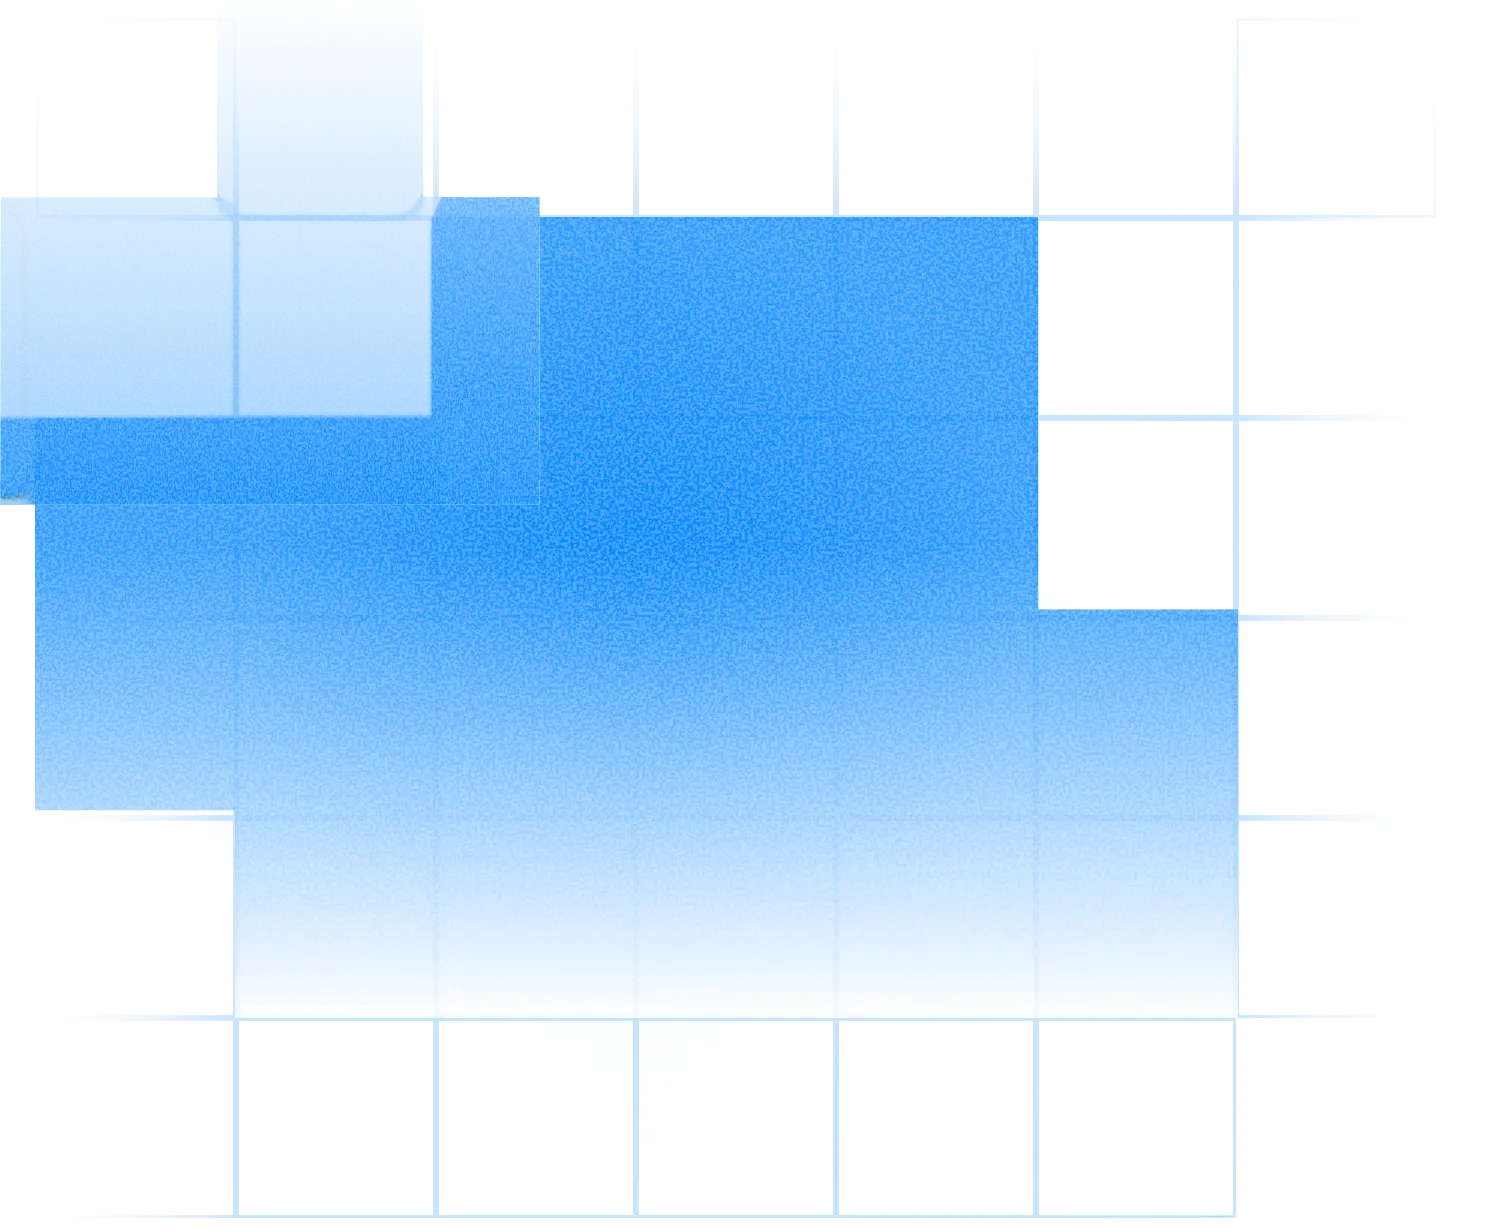
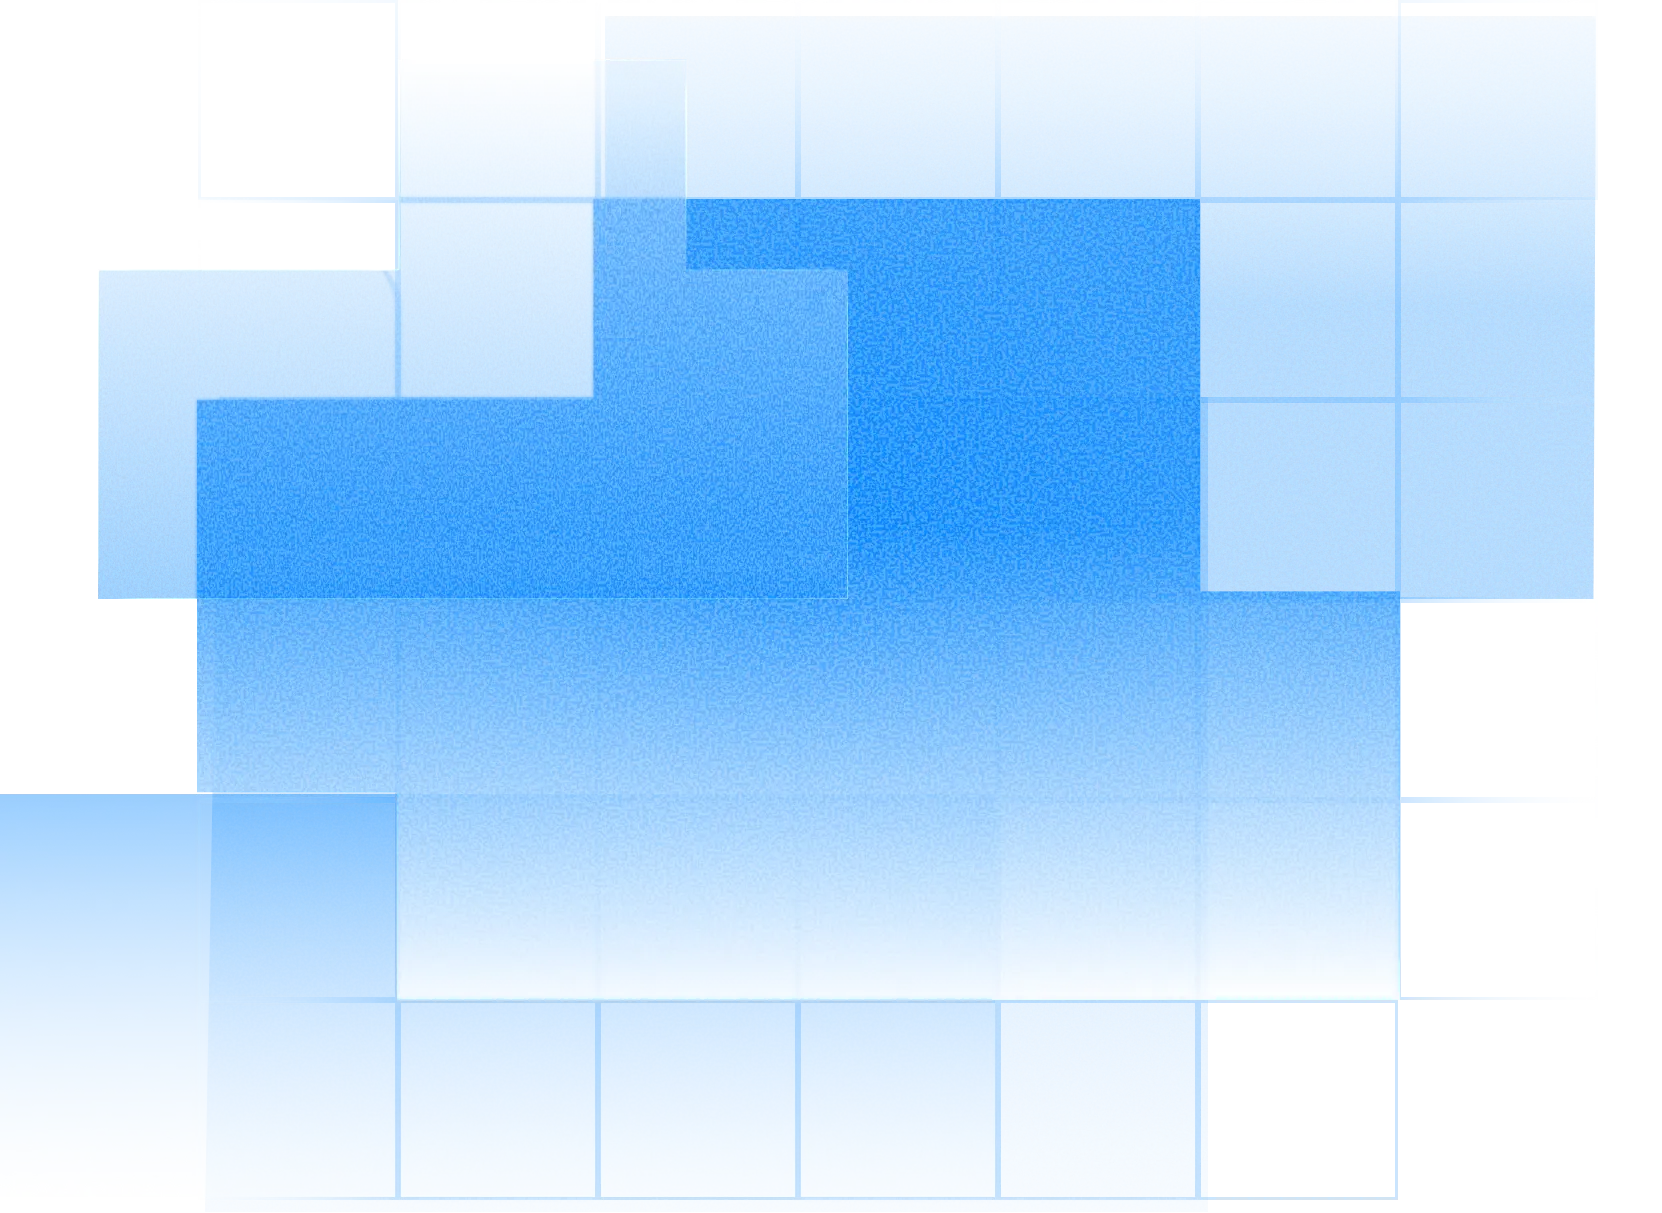
add a certificate sections

diff --git a/components/Home/Home/Section/certificates/index.tsx b/components/Home/Home/Section/certificates/index.tsx
@@ -1,0 +1,142 @@
+"use client";
+import { useState } from "react";
+import { motion, AnimatePresence } from "motion/react";
+import TagTitle from "@/components/ui/TagTitle";
+import Title from "@/components/ui/Title";
+import { TextAnimate } from "@/components/ui/text-animate";
+
+type CertItem = {
+  id: number;
+  title: string;
+  issuer: string;
+  year: string;
+  tags: string[];
+  photo?: string;
+  link?: string;
+};
+
+const certificates: CertItem[] = [
+  {
+    id: 1,
+    title: "Komunikasi bisnis",
+    issuer: "HP Life",
+    year: "2026",
+    tags: ["Bisnis"],
+    photo: "/assets/img/certificates/komunikasi-bisnis.webp",
+    link: "https://www.life-global.org/certificate/38a60c6e-f757-4ed9-8178-cace489b08f4",
+  },
+  {
+    id: 2,
+    title: "computer hardware basic",
+    issuer: "Cisco Network Academy",
+    year: "2026",
+    tags: ["Hardware"],
+    photo: "/assets/img/certificates/computer-hardware-basic.webp",
+    link: "https://www.netacad.com/certificates/?issuanceId=3ebe1a87-eaff-4074-b93c-3c371f24add7",
+  },
+];
+
+const CertCard = ({ item, index, onClick }: { item: CertItem; index: number; onClick: () => void }) => (
+  <motion.div
+    className="group flex flex-col border border-slate-200 rounded-sm overflow-hidden bg-white
+               hover:border-blue-300 transition-colors duration-300 cursor-pointer"
+    initial={{ opacity: 0, y: 14 }}
+    whileInView={{ opacity: 1, y: 0 }}
+    viewport={{ once: true, margin: "-40px" }}
+    transition={{ duration: 0.4, delay: index * 0.07 }}
+    onClick={onClick}
+  >
+    {/* Thumbnail */}
+    <div className="w-full h-auto bg-blue-50 relative overflow-hidden flex-shrink-0">
+      {item.photo ? (
+        <img
+          src={item.photo}
+          alt={item.title}
+          loading="lazy"
+          className="w-full h-full object-cover group-hover:scale-100 transition-transform duration-400"
+        />
+      ) : (
+        <div className="w-full h-full flex items-center justify-center">
+          <span className="text-3xl text-blue-200">🎓</span>
+        </div>
+      )}
+      <span className="absolute top-2 right-2 text-[10px] bg-blue-600 text-white px-2 py-0.5 rounded-full">
+        {item.year}
+      </span>
+    </div>
+
+    {/* Body */}
+    <div className="p-3 flex flex-col gap-1">
+      <p className="text-sm font-medium text-slate-800 leading-snug line-clamp-2">{item.title}</p>
+      <p className="text-xs text-slate-400">{item.issuer}</p>
+    </div>
+  </motion.div>
+);
+
+const Certificates = () => {
+  const [selected, setSelected] = useState<CertItem | null>(null);
+
+  return (
+    <div className="max-w-5xl mx-auto w-full">
+      <TagTitle title="Home" bagian="Certificates" color="blue" />
+      <Title className="font-minecraft">Certificates</Title>
+      <TextAnimate animation="blurIn" by="word">Sertifikasi yang pernah diraih</TextAnimate>
+
+      <div className="mt-10 grid grid-cols-2 sm:grid-cols-3 xl:grid-cols-4 gap-3">
+        {certificates.map((item, i) => (
+          <CertCard key={item.id} item={item} index={i} onClick={() => setSelected(item)} />
+        ))}
+      </div>
+
+{/* Modal */}
+<AnimatePresence>
+  {selected && (
+    <motion.div
+      className="fixed inset-0 z-50 flex items-center justify-center backdrop-blur-sm bg-black/40"
+      initial={{ opacity: 0 }}
+      animate={{ opacity: 1 }}
+      exit={{ opacity: 0 }}
+      onClick={() => setSelected(null)}
+    >
+      <motion.div
+        className="relative mx-4 overflow-hidden w-auto rounded-sm border border-slate-200"
+        initial={{ opacity: 0, scale: 0.95, y: 8 }}
+        animate={{ opacity: 1, scale: 1, y: 0 }}
+        exit={{ opacity: 0, scale: 0.95, y: 8 }}
+        transition={{ duration: 0.2 }}
+        onClick={(e) => e.stopPropagation()}
+      >
+        <button
+          className="absolute top-2 right-2 z-10 w-7 h-7 rounded-full bg-black/30 hover:bg-black/50
+                     text-white text-xs flex items-center justify-center"
+          onClick={() => setSelected(null)}
+        >✕</button>
+
+        {/* Image */}
+        {selected.photo ? (
+          <img src={selected.photo} alt={selected.title} className="w-auto h-auto block" />
+        ) : (
+          <div className="w-72 h-48 bg-blue-50 flex items-center justify-center text-4xl text-blue-200">🎓</div>
+        )}
+
+        {/* Bottom bar */}
+        {selected.link && (
+          <a
+            href={selected.link}
+            target="_blank"
+            rel="noopener noreferrer"
+            className="flex items-center justify-between px-4 py-3 bg-white hover:bg-slate-50 transition-colors"
+          >
+            <span className="text-xs text-slate-600">{selected.issuer}</span>
+            <span className="text-xs text-blue-600">Buka ↗</span>
+          </a>
+        )}
+      </motion.div>
+    </motion.div>
+  )}
+</AnimatePresence>
+    </div>
+  );
+};
+
+export default Certificates;

diff --git a/components/Home/Home/Section/Projects/index.tsx b/components/Home/Home/Section/Projects/index.tsx
@@ -34,7 +34,7 @@ const projects: ProjectItem[] = [
     id: 2,
     title: "Inker: Busines website",
     year: "2026",
-    description: "Membuat website management client dan SOP produk",
+    description: "tahap design untuk pembuatan website SOP & Client management",
     techs: ["Laravel", "TailwindCss"],
     repo: "https://github.com/notcore",
     photo: "/assets/img/projects/Inker.PNG",
@@ -58,8 +58,7 @@ const ProjectCard = ({ item, index }: { item: ProjectItem; index: number }) => {
 
   return (
     <motion.div
-      id="projects"
-      className={`group flex flex-col border border-slate-200 rounded-sm overflow-hidden bg-white transition-colors duration-300
+      className={`group flex flex-col mx-5 border border-slate-200 rounded-sm overflow-hidden bg-white transition-colors duration-300
         ${tapped ? "border-blue-300" : "hover:border-blue-300"}`}
       initial={{ opacity: 0, y: 16 }}
       whileInView={{ opacity: 1, y: 0 }}
@@ -69,7 +68,7 @@ const ProjectCard = ({ item, index }: { item: ProjectItem; index: number }) => {
       onTouchEnd={() => setTimeout(() => setTapped(false), 600)}
     >
       {/* thumbnail */}
-      <div className="w-full relative h-40 bg-slate-100 overflow-hidden flex-shrink-0">
+      <div className="w-full relative h-30 bg-slate-100 overflow-hidden flex-shrink-0">
         <img
           src="/assets/img/gradient/card-gradient-blue.webp"
           className="absolute inset-0 w-full h-full object-cover opacity-50"
@@ -77,13 +76,13 @@ const ProjectCard = ({ item, index }: { item: ProjectItem; index: number }) => {
 
         {item.photo && !imgError ? (
           <div
-            className={`absolute -bottom-5 left-0 w-[75%] h-[85%] will-change-transform
+            className={`absolute  -bottom-5 left-2 w-[75%] h-[85%] will-change-transform
               transition-transform duration-500 [transition-timing-function:cubic-bezier(0.34,1.2,0.64,1)]
               rounded-md border-4 border-zinc-800
-              group-hover:-translate-y-5 group-hover:translate-x-[17%] group-hover:scale-110
-              ${tapped ? "-translate-y-5 translate-x-[17%] scale-110" : ""}`}
+              group-hover:-translate-y-5 group-hover:translate-x-[14%] group-hover:scale-110
+              ${tapped ? "-translate-y-5 translate-x-[14%] scale-110" : ""}`}
           >
-            <div className="w-20 h-2 bg-zinc-800 left-[35%] rounded-b-md absolute" />
+            <div className="w-20 h-2 bg-zinc-800 left-[37%] md:left-[34%] rounded-b-md absolute" />
             <img
               src={item.photo}
               alt={item.title}

diff --git a/app/page.tsx b/app/page.tsx
@@ -10,6 +10,7 @@ import Experience from "@/components/Home/Home/Section/Experience";
 import Projects from "@/components/Home/Home/Section/Projects";
 import Layout from "@/components/ui/Layout";
 import Contact from "@/components/Home/Home/Section/Contact";
+import Certificates from "@/components/Home/Home/Section/certificates";
 import DownloadCV from "@/components/ui/Download";
 
 export default function CorePage() {
@@ -59,17 +60,22 @@ export default function CorePage() {
         </section>
 
         {/* Experience */}
-        <section id="experience" className="min-h-screen">
+        <section id="experience" className="min-h-auto">
           <Experience />
         </section>
 
         {/* Projects */}
-        <section id="projects" className="min-h-screen">
+        <section id="projects" className="min-h-auto">
           <Projects />
         </section>
 
+        {/* certificate */}
+        <section id="certificate" className="min-h-auto">
+          <Certificates />
+        </section>
+
         {/* Contact */}
-        <section id="contact" className="min-h-[40vh]">
+        <section id="contact" className="min-h-auto">
           <Contact />
         </section>
       </div>

diff --git a/components/ui/Sidebar/index.tsx b/components/ui/Sidebar/index.tsx
@@ -1,6 +1,6 @@
 "use client";
 
-import { User, Briefcase, Code2, Mail, MapPin, Phone, Instagram, Send } from "lucide-react";
+import { User, Briefcase, Code2, Award, Mail, MapPin, Phone, Instagram, Send } from "lucide-react";
 import { cn } from "@/lib/utils";
 import DownloadCV from "@/components/ui/Download"
 
@@ -8,7 +8,9 @@ const navItems = [
   { icon: User,      label: "About",      id: "about" },
   { icon: Briefcase, label: "Experience", id: "experience" },
   { icon: Code2,     label: "Projects",   id: "projects" },
+  { icon: Award,     label: "Certificate",id: "certificate" },
   { icon: Mail,      label: "Contact",    id: "contact" },
+
 ];
 
 const contacts = [
@@ -18,12 +20,6 @@ const contacts = [
     value: "6281215997620",
     href: "https://wa.me/6281215997620",
   },
-  {
-    icon: Mail,
-    label: "Email",
-    value: "[email redacted]",
-    href: "mailto:[email redacted]",
-  },
 ];
 
 export default function Sidebar({ active }: { active: string }) {
@@ -32,7 +28,7 @@ export default function Sidebar({ active }: { active: string }) {
   };
 
   return (
-    <aside className="w-[252px] ml-[10%] min-w-[252px] fixed top-0 left-0 h-screen bg-white border-r border-black/[0.08] flex-col hidden lg:flex">
+    <aside className="w-[252px] ml-[5%] min-w-[252px] fixed top-0 left-0 h-screen bg-white border-r border-black/[0.08] flex-col hidden lg:flex">
 
       {/* Profile */}
       <div className="px-[22px] pt-[26px] pb-[18px]">

diff --git a/components/ui/Footer/index.tsx b/components/ui/Footer/index.tsx
@@ -4,7 +4,7 @@ const socials = [
   { icon: Github,    href: "https://github.com/notcore",         label: "GitHub",    value: "notcore" },
 //   { icon: Instagram, href: "https://instagram.com/mistakee._", label: "Instagram", value: "@dava.elyanta" },
   { icon: Phone,      href: "https://wa.me/[phone redacted]",           label: "whatsapp",  value: "[phone redacted]" },
-  { icon: Mail,      href: "mailto:[email redacted]",              label: "Email",     value: "[email redacted]" },
+  { icon: Mail,      href: "mailto:[email redacted]",              label: "Email",     value: "[email redacted]" },
 ];
 
 const quickNav = [
@@ -45,7 +45,7 @@ export default function Footer() {
           </div>
           <div>
             <p className="font-coolvetica text-xl leading-tight">Dava Elyanta</p>
-            <p className="text-xs text-neutral-400 mt-0.5">Fresh Graduate</p>
+            <p className="text-xs text-neutral-400 mt-0.5">WE CAN GO UP</p>
           </div>
           <div className="flex items-center gap-1 text-xs text-blue-600">
             <MapPin size={10} />

diff --git a/components/ui/Layout/index.tsx b/components/ui/Layout/index.tsx
@@ -5,7 +5,7 @@ import MobileNav from "@/components/ui/MobileNav";
 import Footer from "@/components/ui/Footer";
 import { useScrollSpy } from "@/hooks/UseScrollSpy";
 
-const SECTIONS = ["about", "experience", "projects", "contact"];
+const SECTIONS = ["about", "experience", "projects", "certificate", "contact"];
 
 const Layout = ({ children }: { children: React.ReactNode }) => {
   const active = useScrollSpy(SECTIONS);